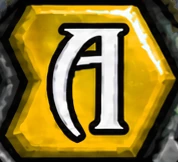
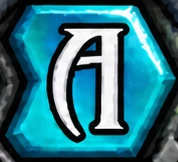
fix(siege): keep the battle bar tabs in place, glow the picked one

diff --git a/bug-hunter/src/siege/siege.css b/bug-hunter/src/siege/siege.css
@@ -826,3 +826,17 @@
   .sg-st-tabs{margin-bottom:8px}
   .siege-root.is-cartoon .sg-prep .sg-st-actions button,.siege-root.is-cartoon .sg-prep .sg-st-actions button:hover:not(:disabled){font-size:12px;line-height:1.1;padding:0 2px;border-width:0 22px;border-image-width:0 22px}
 }
+/* v1.15.50 — the L / A / S tabs are the bar's own drawing, none bigger or recoloured: the picked one just glows. (A tapped tab
+   kept its `:hover`, whose rule made it fill the whole row and hide the others: every state keeps its own place now.) */
+.siege-root.is-cartoon .sg-tabs button[data-sg-tab],.siege-root.is-cartoon .sg-tabs button[data-sg-tab]:hover,.siege-root.is-cartoon .sg-tabs button[data-sg-tab]:focus{position:absolute;top:0;height:100%;background:none;filter:none;transform:none;outline:0}
+.siege-root.is-cartoon .sg-tabs button[data-sg-tab="land"],.siege-root.is-cartoon .sg-tabs button[data-sg-tab="land"]:hover{left:0;width:calc(170 * var(--u))}
+.siege-root.is-cartoon .sg-tabs button[data-sg-tab="air"],.siege-root.is-cartoon .sg-tabs button[data-sg-tab="air"]:hover{left:calc(176 * var(--u));width:calc(178 * var(--u))}
+.siege-root.is-cartoon .sg-tabs button[data-sg-tab="special"],.siege-root.is-cartoon .sg-tabs button[data-sg-tab="special"]:hover{left:calc(362 * var(--u));width:calc(172 * var(--u))}
+.siege-root.is-cartoon .sg-tabs button[data-sg-tab].is-on,.siege-root.is-cartoon .sg-tabs button[data-sg-tab].is-on:hover{background-position:center;background-size:100% 100%;background-repeat:no-repeat;filter:brightness(1.35) saturate(1.2) drop-shadow(0 0 calc(10 * var(--u)) #fff) drop-shadow(0 0 calc(24 * var(--u)) #ffd23f)}
+.siege-root.is-cartoon .sg-tabs button[data-sg-tab="land"].is-on{background-image:url('/images/game/siege/bar-tab-l.webp')}
+.siege-root.is-cartoon .sg-tabs button[data-sg-tab="air"].is-on{background-image:url('/images/game/siege/bar-tab-a.webp')}
+.siege-root.is-cartoon .sg-tabs button[data-sg-tab="special"].is-on{background-image:url('/images/game/siege/bar-tab-s.webp')}
+.siege-root.is-cartoon .sg-tabs button[data-sg-tab]:hover:not(.is-on){background:#ffffff26}
+.siege-root.is-cartoon .sg-tabs button[data-sg-tab="land"].is-on:hover{background-image:url('/images/game/siege/bar-tab-l.webp')}
+.siege-root.is-cartoon .sg-tabs button[data-sg-tab="air"].is-on:hover{background-image:url('/images/game/siege/bar-tab-a.webp')}
+.siege-root.is-cartoon .sg-tabs button[data-sg-tab="special"].is-on:hover{background-image:url('/images/game/siege/bar-tab-s.webp')}

diff --git a/bug-hunter/src/version.ts b/bug-hunter/src/version.ts
@@ -4,7 +4,7 @@
  * This folder migration preserves the public game URL, saves and gameplay.
  * The build stamp changes automatically on each deployment.
  */
-export const GAME_VERSION = '1.15.49';
+export const GAME_VERSION = '1.15.50';
 
 declare const __GAME_BUILD__: { commit: string; built: string };
 /** Build stamp from the shared Vite configuration; safe outside Vite too. */

diff --git a/bug-hunter/CHANGELOG.md b/bug-hunter/CHANGELOG.md
@@ -4,6 +4,11 @@
 
 This changelog tracks game-version changes starting with v1.12.55. Earlier releases are not reconstructed here.
 
+## 1.15.50 - 2026-10-27
+
+### Fixed
+- Siege Cartoon: the battle bar's L / A / S tabs keep the bar's own drawing (no bigger, no gold recolour) and the picked one only glows. A tapped tab no longer stretches over the whole row (its `:hover` rule hid the other tabs on touch screens).
+
 ## 1.15.49 - 2026-10-27
 
 ### Added
